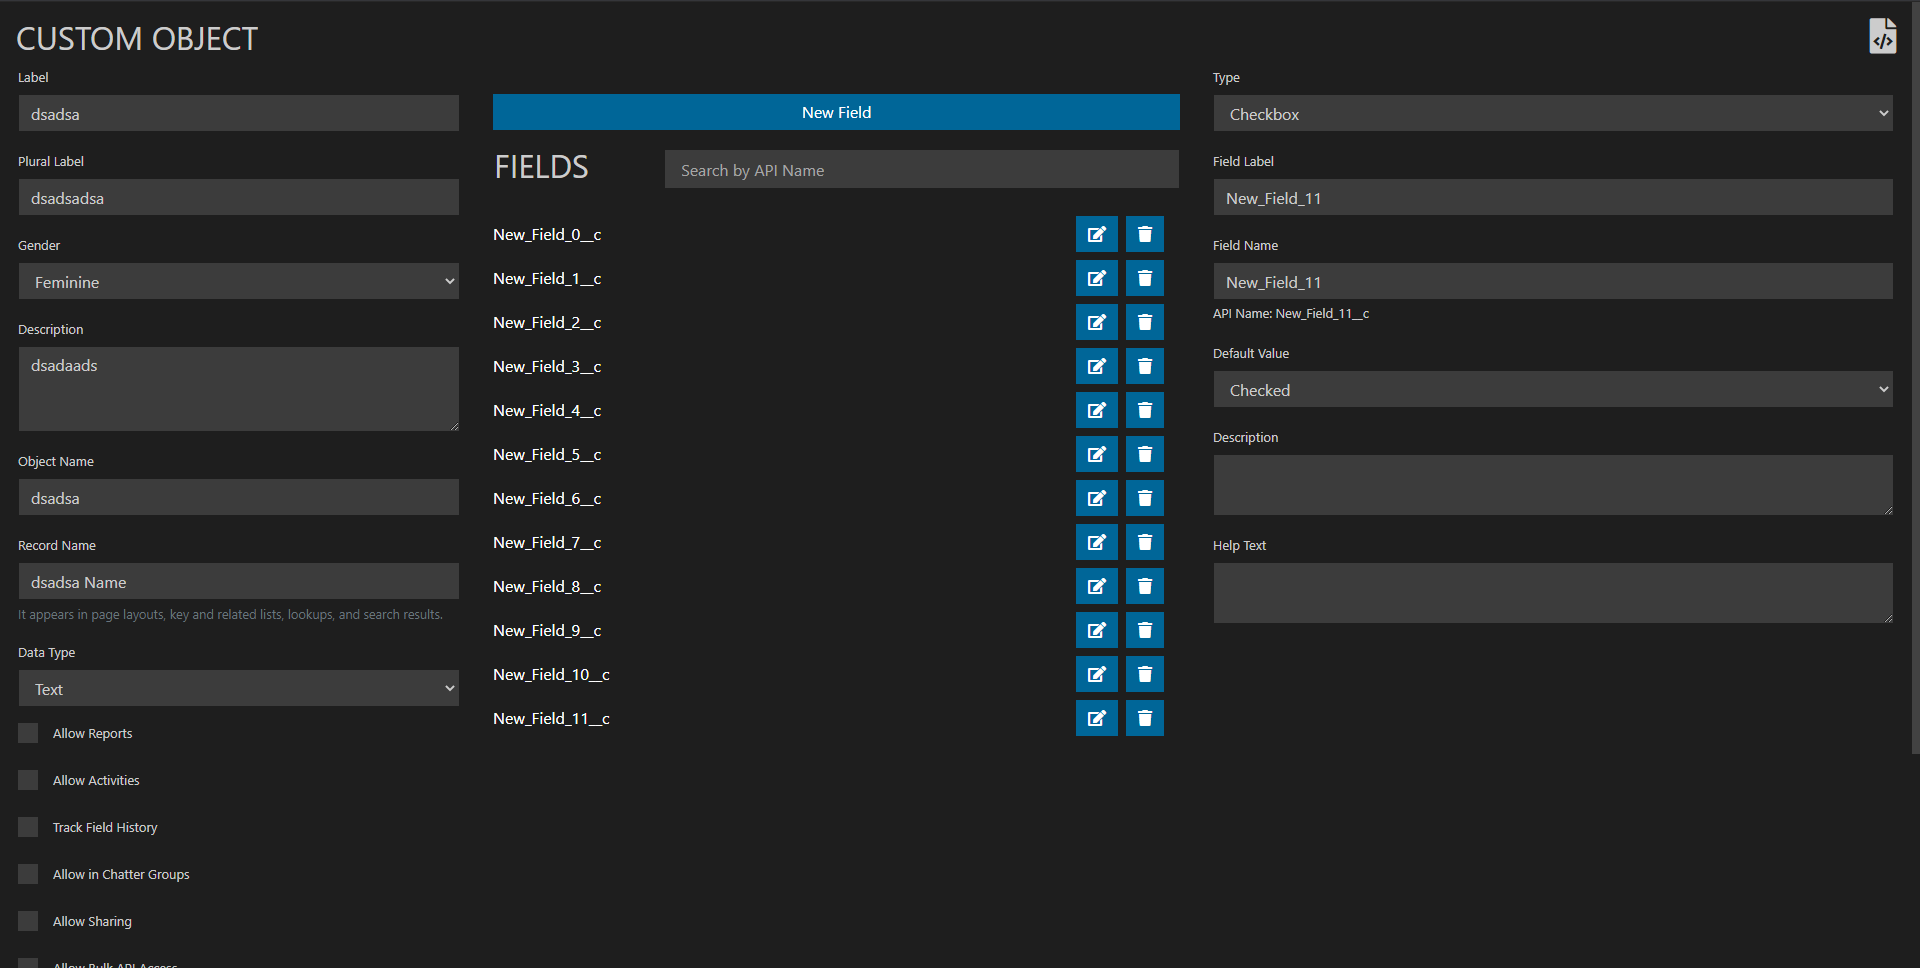
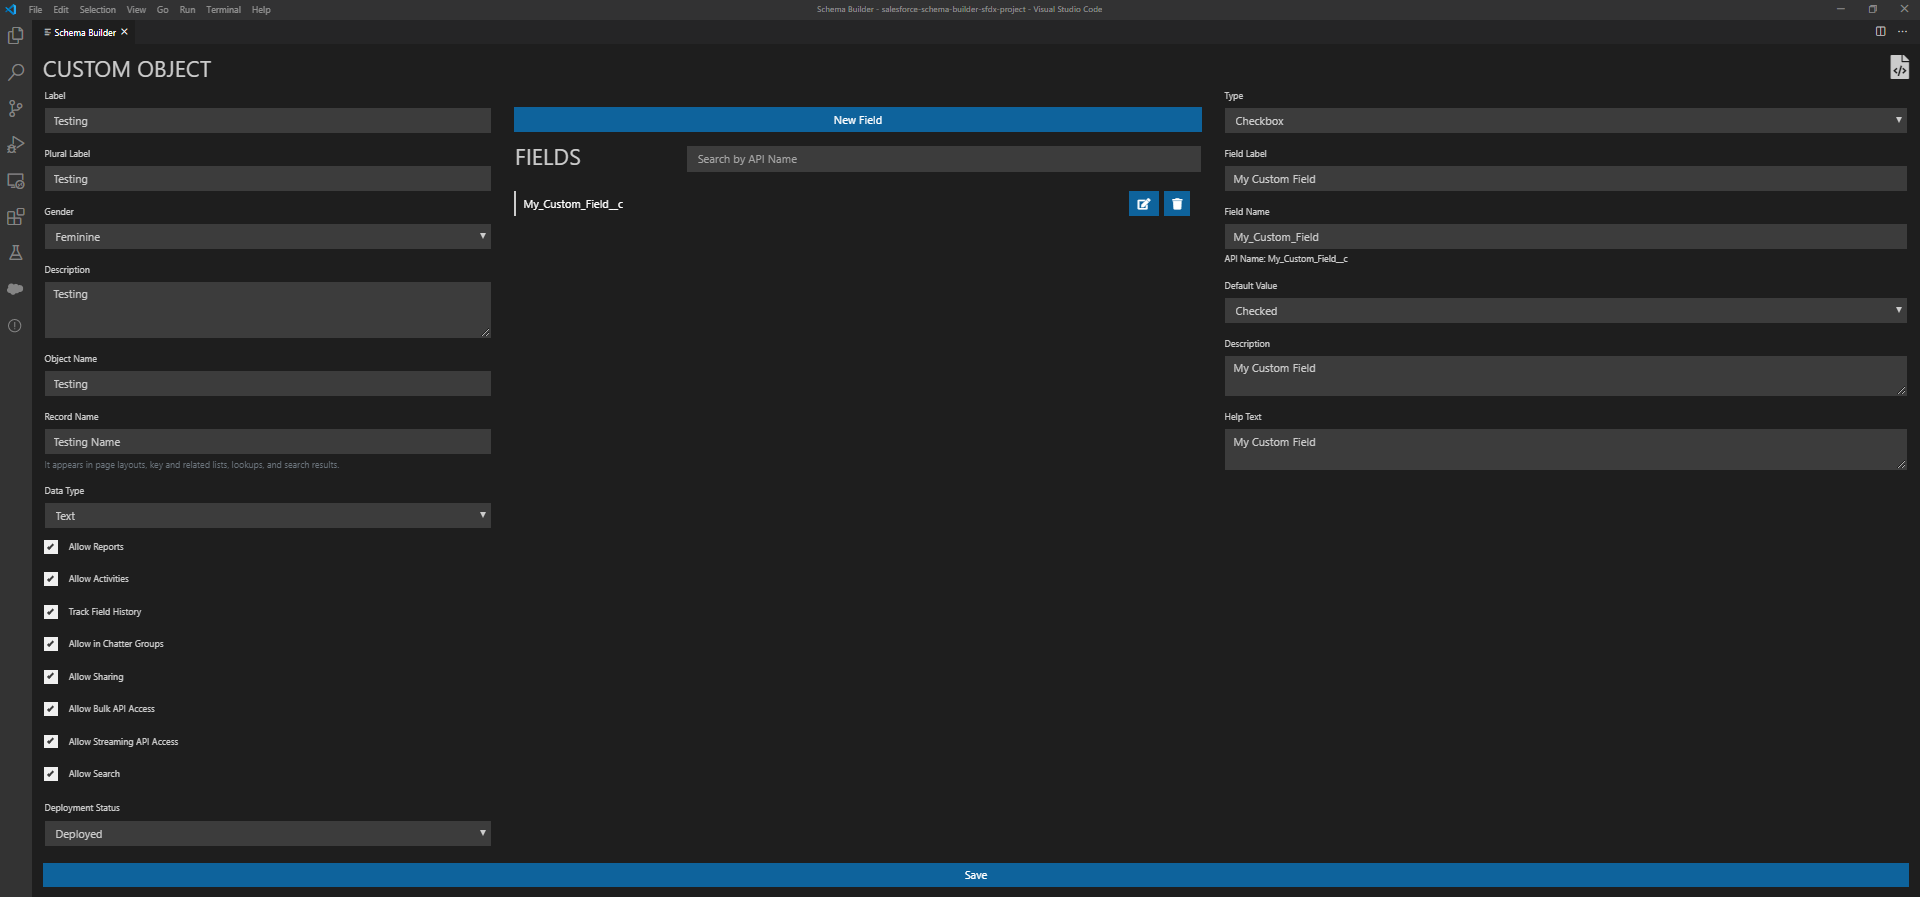
Update README pictures

Changed region(s): [[0.0, 0.0, 1.0, 1.0], [0.4375, 0.0, 0.5625, 0.0312]]

diff --git a/README.md b/README.md
@@ -13,13 +13,9 @@ This extension goal is to enable developers to manage Salesforce Custom Objects 
 - sfdx-cli/7.58.2-937f666ed4 win32-x64 node-v10.15.3
 - VS Code 1.32.0
 
-<img src="https://drive.google.com/uc?id=12SxfJ_TqXn-lToUAr0VED31IPdK6FG-H"></img>
-
-<img src="https://drive.google.com/uc?id=1956XLUE0njEMwzrNBn8t1gem1incODK-"></img>
-
 ## How to Use
 
-This extension will always deploy metadata to the default org configured in the sfdx. So, in order to make it work, first configure your sfdx default username using one of the following commands
+Configure a Default Username for SFDX
 
 ```
 sfdx force:config:set defaultusername=scratch_org_alias
@@ -27,6 +23,20 @@ sfdx force:config:set defaultusername=me@my.org
 sfdx force:config:set defaultusername=me@myhub.org -g
 ```
 
-Open a SFDX Project and press `Ctrl+Shift+P`, type `SFDX: Schema Builder` and click on the option.
+In a SFDX Project directory, press `Ctrl+Shift+P`, type `SFDX: Schema Builder` and select the option like in the image below
 
-<img src="https://drive.google.com/uc?id=1Be54v-Og83A9emO_tJAWZepjyiktnOMq"></img>
+<img src="https://drive.google.com/uc?id=1Be54v-Og83A9emO_tJAWZepjyiktnOMq" width="900px"></img>
+
+The Shema Builder is divided in three sections, the Object Form on the left, the Field manager on the middle and the Field form on the right, like shown in the images below. In the Object Form you can configure the same options that are available in the Salesfore Setup to create a new Custom Objet. The field manager is where you add, remove or search the fields. The field form is enabled everytime you select a field to be eddited. It also provides the same forms available in the Setup to create field.
+
+<b>obs:</b> The formula builder is still being developed but you can still paste your formula in the Default field when available.
+
+<img src="https://drive.google.com/uc?id=1rOpCKTUxbTf6CgoEVK0u1sVhRKl7GuNM" width="900px"></img>
+<img src="https://drive.google.com/uc?id=13uw7I39ltDF3YBLbFvk8dKQDV82uOo8P" width="900px"></img>
+<img src="https://drive.google.com/uc?id=1rX9De8Dna95yjomtZvoFgzSPDYah30Ks" width="900px"></img>
+
+If you want to see the generate metadata just click on the button on the top right side of the extension, like shown in the next image.
+
+<img src="https://drive.google.com/uc?id=1yZJWrRdDjXfXEnuKUcinVidZEzE_ppsA" width="900px"></img>
+
+<img src="https://drive.google.com/uc?id=1956XLUE0njEMwzrNBn8t1gem1incODK-" width="900px"></img>
